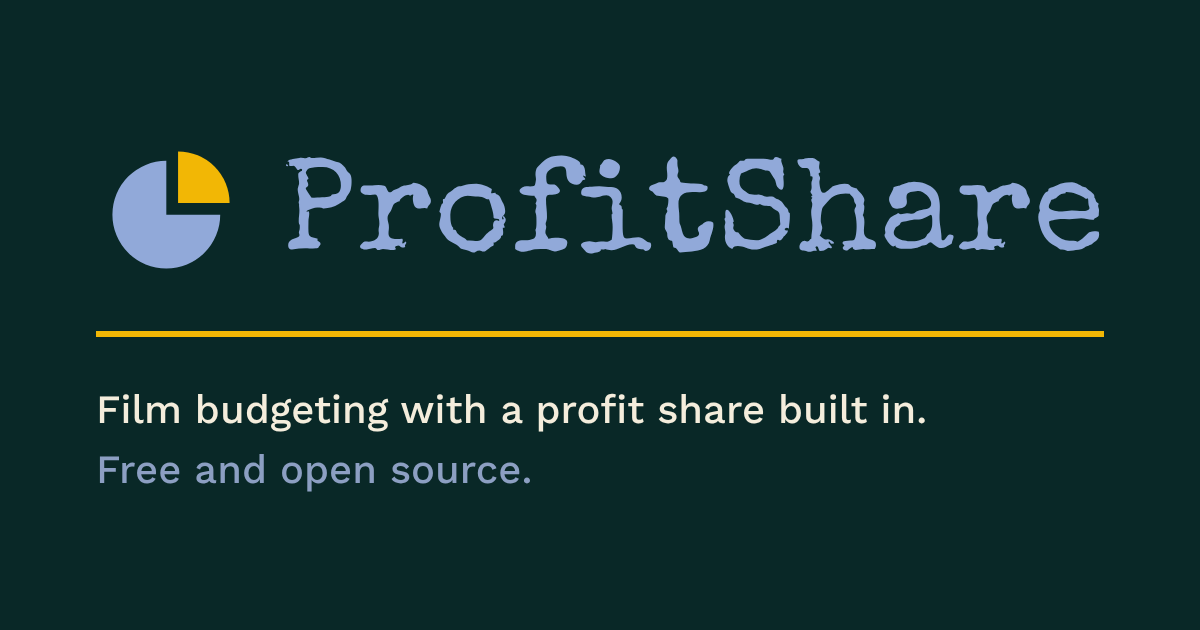
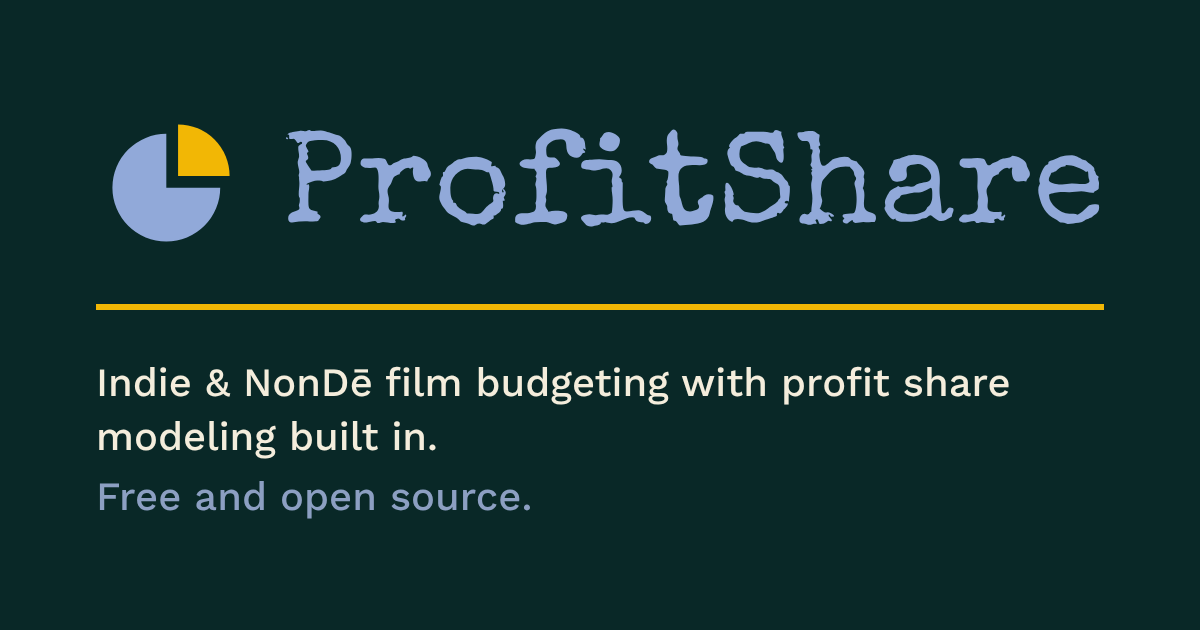
About is the first tab and shows on the first screen; filmmaker-not-a-lawyer line; preview picture tagline
Claude-Session: https://claude.ai/code/session_012ifNQ9qZTqJcveebdVpd2Z

diff --git a/src/App.tsx b/src/App.tsx
@@ -671,10 +671,13 @@ export default function App() {
         )}
       </header>
       <hr className="rule" aria-hidden="true" />
-      {!(fresh && tab === 'start') && (
+      {
+        // About comes first, so a newcomer can read what this is and find the glossary before anything else. With
+        // nothing open yet, About and Start are the only two places there are.
         <nav className="tabs">
           {(
             [
+              ['about', 'About'],
               ['start', 'Start'],
               ['deal', 'Deal'],
               ['topsheet', 'Top sheet & budget'],
@@ -686,15 +689,16 @@ export default function App() {
               ['sag', 'SAG tier'],
               ['incentives', 'Incentives'],
               ['pitch', 'Pitch'],
-              ['about', 'About'],
             ] as [Tab, string][]
-          ).map(([k, label]) => (
-            <button key={k} className={tab === k ? 'on' : ''} onClick={() => setTab(k)}>
-              {label}
-            </button>
-          ))}
+          )
+            .filter(([k]) => !(fresh && tab === 'start') || k === 'about' || k === 'start')
+            .map(([k, label]) => (
+              <button key={k} className={tab === k ? 'on' : ''} onClick={() => setTab(k)}>
+                {label}
+              </button>
+            ))}
         </nav>
-      )}
+      }
       <main>
         <div role="status" aria-live="polite">
           {msg && (

diff --git a/src/ui/AboutExtras.tsx b/src/ui/AboutExtras.tsx
@@ -13,6 +13,11 @@ export function WhatItIs() {
       </p>
       <ul>
         <li>
+          <b>Built by a filmmaker, not a lawyer or a C.P.A.</b> ProfitShare is a tool to get you 90% of the way to the
+          finish line. It is up to you to show your work to your legal team and your C.P.A. before and during your
+          contract and negotiation period.
+        </li>
+        <li>
           <b>US dollars, California rules.</b> Payroll fringes default to a California set, and the state incentive it
           models is the California film tax credit.
         </li>

diff --git a/CHANGELOG.md b/CHANGELOG.md
@@ -39,6 +39,9 @@ Two independent reviews of the night's work found these, fixed the same morning:
 - **Tidying.** Report deck leftovers, the old smoke scripts and unused code are gone; the compiler now refuses unused locals and parameters; the browser walk covers every way in from the start screen (63 steps).
 - **README caught up.** It now describes the tour and glossary, export, the save reminder and *Download all my projects*, and the start screen and top sheet screenshots were retaken.
 - **One code style.** Prettier now formats the TypeScript and the tools at 120 columns (`npm run format`). No behaviour changes; stylesheets are left as they were because tests read them.
+- **About comes first.** It is the first tab, and a first-time visitor now sees About and Start before opening anything, so the glossary is findable from the first screen.
+- **"Built by a filmmaker, not a lawyer or a C.P.A."** now leads "What it is and what it is not" on About and in the README.
+- The link preview picture says "Indie & NonDē film budgeting with profit share modeling built in." The code of conduct says "they"; the security page says plainly that reports are not paid for.
 
 ## 2026-11-18
 

diff --git a/README.md b/README.md
@@ -20,6 +20,7 @@ Written by a director budgeting her first feature, because none of the tools wou
 
 ## What it is and what it is not
 
+- **Built by a filmmaker, not a lawyer or a C.P.A.** ProfitShare is a tool to get you 90% of the way to the finish line. It is up to you to show your work to your legal team and your C.P.A. before and during your contract and negotiation period.
 - **US dollars, California rules.** Payroll fringes (the taxes and fees an employer pays on top of a wage) default to a California set, and the state incentive it models is the California film tax credit.
 - **SAG-AFTRA low-budget theatrical tiers.** Ultra Low Budget, Moderate Low Budget, Low Budget and Theatrical Basic, with the rates effective 7/1/2026.
 - **Built for a laptop screen.** It opens and works on a phone, where the widest tables scroll sideways inside their own box, but budgeting is easier with room. The pitch decks it makes are laid out for phones too.

diff --git a/CODE_OF_CONDUCT.md b/CODE_OF_CONDUCT.md
@@ -21,7 +21,7 @@ ProfitShare is made for filmmakers, many of them budgeting a film for the first 
 
 Use GitHub's own tools: the **Report content** option in the menu beside any comment, issue or pull request, or GitHub's report abuse form for an account. Reports made that way are private and go to GitHub's own staff. You can also block an account from your own, so it can no longer reach you.
 
-The maintainer may edit, hide or remove comments, issues and contributions that break this code, and may block a person who keeps breaking it. This is a one-person project, so these calls are made by one person, as fairly and as soon as she can.
+The maintainer may edit, hide or remove comments, issues and contributions that break this code, and may block a person who keeps breaking it. This is a one-person project, so these calls are made by one person, as fairly and as soon as they can.
 
 ## Where this applies
 

diff --git a/SECURITY.md b/SECURITY.md
@@ -22,7 +22,7 @@ Please do not open a public issue or pull request for a security problem, and pl
 
 ## What to expect
 
-This is a one-person project. Reports are read and answered as soon as the maintainer can. There is no promised response time and no bounty. If the report holds up, the fix is made on `main`, which is what the live app is built from, and you can be named in the changelog if you would like to be.
+This is a one-person project. Reports are read and answered as soon as the maintainer can. There is no promised response time, and no bug bounty: reports are not paid for. If the report holds up, the fix is made on `main`, which is what the live app is built from, and you can be named in the changelog if you would like to be.
 
 Only the current version on `main` is supported. There are no older versions to patch.
 
